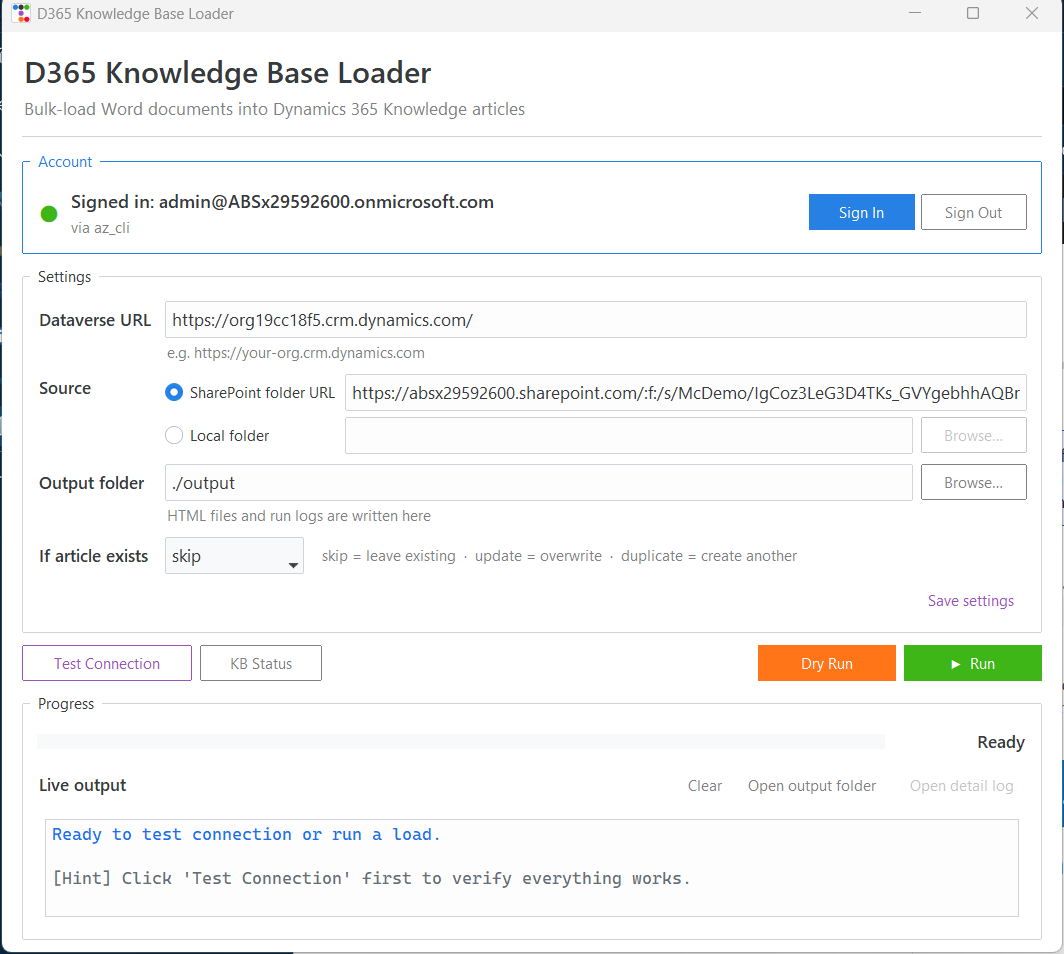
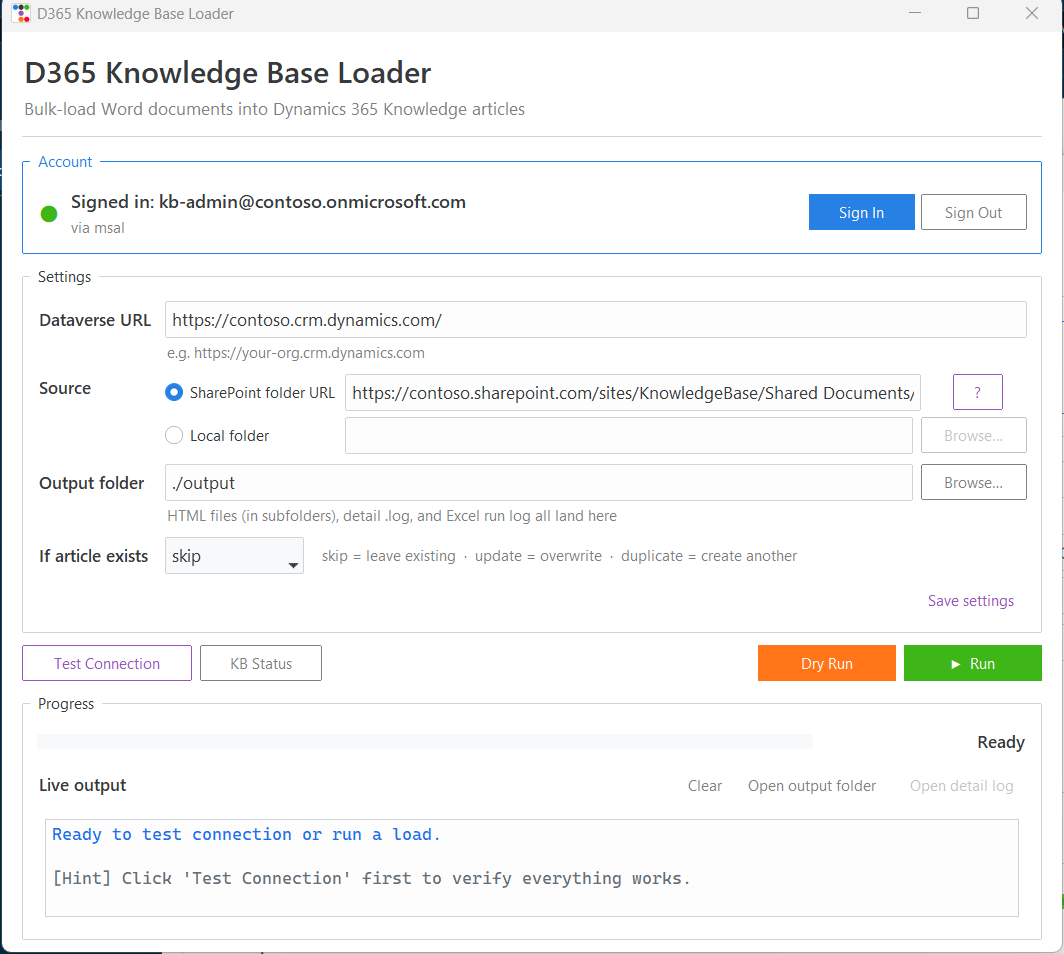
Sanitize screenshots, refresh README and .env.example for external use
Pre-share audit and cleanup:

- Regenerate all 3 screenshots with placeholder values (contoso /
  kb-admin) instead of the dev's real tenant info
- Capture utilities now suppress webbrowser open during regeneration
  so they don't have side effects when run

README rewrite to reflect current state:
- Hybrid auth (MSAL Graph PowerShell + az CLI) is now the default,
  no app registration required
- New 'Inline styling' section documenting the Fluent theme and
  smart callouts
- Progress section mentions the X/Y (NN%) format
- Project structure includes styles.py and all docs/ files
- Troubleshooting section covers the 'no document libraries visible'
  membership case and ARM64 Windows wheel build issue

.env.example rewrite:
- Marked clearly as OPTIONAL — settings.json is the primary store
- Auth section renamed to KB_LOADER_AUTH (not the old AUTH_METHOD)
- AZURE_CLIENT_ID/TENANT_ID documented as overrides (not required)
- Old comments about AUTH_METHOD=auto/msal/az_cli removed

diff --git a/docs/capture_screenshot.py b/docs/capture_screenshot.py
@@ -1,9 +1,8 @@
-"""Capture a screenshot of the GUI for the README.
+"""Capture a screenshot of the GUI for the README, with sanitized demo values.
 
-Launches the GUI, waits for layout to settle, takes a screenshot of the window
-region, then closes. Saves to docs/screenshot.png.
+Launches the GUI with placeholder URLs/email so the screenshot doesn't leak
+real tenant info, takes a screenshot, then closes. Saves to docs/screenshot.png.
 """
-import sys
 import time
 from pathlib import Path
 
@@ -16,7 +15,20 @@ _enable_windows_dpi_awareness()
 root = ttk.Window(themename=DEFAULT_THEME)
 gui = KBLoaderGUI(root)
 
-# Add some sample log content so the screenshot looks more useful
+# Sanitize displayed values so the screenshot doesn't leak real tenant info
+gui.dataverse_var.set("https://contoso.crm.dynamics.com/")
+gui.sharepoint_var.set("https://contoso.sharepoint.com/sites/KnowledgeBase/Shared Documents/KB Articles")
+gui.output_var.set("./output")
+gui.source_mode_var.set("sharepoint")
+gui._on_source_mode_change()
+
+# Force a clean signed-in indicator with a placeholder identity
+gui.auth_icon_var.set("●")
+gui.auth_icon.configure(bootstyle="success")
+gui.auth_status_var.set("Signed in: kb-admin@contoso.onmicrosoft.com")
+gui.auth_method_var.set("via msal")
+
+# Sample live log
 gui._log("✓ Settings loaded.\n", "success")
 gui._log("Ready to test connection or run a load.\n", "info")
 gui._log("\n[Hint] Click 'Test Connection' first to verify everything works.\n", "muted")
@@ -27,13 +39,11 @@ root.update()
 time.sleep(0.5)
 root.update()
 
-# Get window bounds
 x = root.winfo_rootx()
 y = root.winfo_rooty()
 w = root.winfo_width()
 h = root.winfo_height()
 
-# Capture some space around the title bar too
 title_bar_height = 32
 img = ImageGrab.grab(bbox=(x - 2, y - title_bar_height, x + w + 2, y + h + 2))
 

diff --git a/docs/capture_recovery.py b/docs/capture_recovery.py
@@ -1,25 +1,30 @@
-"""Capture the recovery dialog for visual review."""
+"""Capture the sharing-link recovery dialog (sanitized)."""
 import time
 from pathlib import Path
 
 import ttkbootstrap as ttk
 from PIL import ImageGrab
 
-# No-op browser
-import webbrowser
-webbrowser.open = lambda url: None
-
+from kb_loader import gui as gui_module
 from kb_loader.gui import KBLoaderGUI, DEFAULT_THEME, _enable_windows_dpi_awareness
+
+# Suppress browser auto-open during capture
+gui_module._open_url_in_browser = lambda url: True
 
 _enable_windows_dpi_awareness()
 root = ttk.Window(themename=DEFAULT_THEME)
 gui = KBLoaderGUI(root)
+
+gui.dataverse_var.set("https://contoso.crm.dynamics.com/")
+gui.auth_status_var.set("Signed in: kb-admin@contoso.onmicrosoft.com")
+gui.auth_method_var.set("via msal")
+
 root.update_idletasks()
 root.update()
 time.sleep(0.3)
 
 gui._show_sharing_link_recovery_dialog(
-    "https://absx29592600.sharepoint.com/:f:/s/McDemo/IgCoz3LeG3D4TKs_GVYgebhhAQBrNsGNoiftdoDXAJ2DfEs",
+    "https://contoso.sharepoint.com/:f:/s/KnowledgeBase/abc123token456",
     "Test",
 )
 root.update_idletasks()
@@ -27,8 +32,7 @@ root.update()
 time.sleep(0.5)
 root.update()
 
-# Capture the entire screen area for the dialog
-# Find the dialog window
+# Find the dialog window and capture it
 for w in root.winfo_children():
     if isinstance(w, ttk.Toplevel) or w.winfo_class() == "Toplevel":
         x = w.winfo_rootx()

diff --git a/docs/capture_signin.py b/docs/capture_signin.py
@@ -1,28 +1,38 @@
-"""Capture a screenshot of the device code dialog overlay."""
+"""Capture a screenshot of the device code dialog overlay (sanitized)."""
 import time
 from pathlib import Path
 
 import ttkbootstrap as ttk
 from PIL import ImageGrab
 
+from kb_loader import gui as gui_module
 from kb_loader.gui import KBLoaderGUI, DEFAULT_THEME, _enable_windows_dpi_awareness
+
+# Suppress browser auto-open during capture
+gui_module._open_url_in_browser = lambda url: True
 
 _enable_windows_dpi_awareness()
 root = ttk.Window(themename=DEFAULT_THEME)
 gui = KBLoaderGUI(root)
+
+# Sanitize main window so it doesn't leak real values
+gui.dataverse_var.set("https://contoso.crm.dynamics.com/")
+gui.sharepoint_var.set("https://contoso.sharepoint.com/sites/KnowledgeBase/Shared Documents/KB Articles")
+gui.auth_status_var.set("Signed in: kb-admin@contoso.onmicrosoft.com")
+gui.auth_method_var.set("via msal")
+
 gui._log("Starting sign-in…\n", "info")
 root.update_idletasks()
 root.update()
 time.sleep(0.3)
 
-# Show device code dialog
+# Show device code dialog with placeholder code
 gui._show_device_code_dialog("F7Q3K9MAJ", "https://microsoft.com/devicelogin")
 root.update_idletasks()
 root.update()
 time.sleep(0.5)
 root.update()
 
-# Capture the area covering both windows
 x = root.winfo_rootx()
 y = root.winfo_rooty()
 w = root.winfo_width()

diff --git a/README.md b/README.md
@@ -28,7 +28,7 @@ The first run takes about a minute to set up the Python environment and install 
 
 ### 3. Use the app
 
-1. Click **Sign In** (a browser window opens — sign in with your Microsoft account)
+1. Click **Sign In** — a sign-in code appears in a dialog and your browser opens to https://microsoft.com/devicelogin. Paste the code, sign in.
 2. Fill in the **Dataverse URL** (e.g. `https://your-org.crm.dynamics.com`)
 3. Pick your **source** (SharePoint URL or local folder)
 4. Click **Test Connection** to verify everything works
@@ -43,38 +43,34 @@ That's it. Your settings are remembered for next time.
 
 ### 1. Account
 
-![Account section](docs/screenshot.png)
-
 The colored dot tells you at a glance whether you're signed in:
 
 | Dot | Meaning |
 |-----|---------|
 | 🟢 Green | Signed in — ready to use |
 | ⚪ Grey  | Not signed in yet |
-| 🔴 Red   | Authentication isn't available (Azure CLI not installed and no MSAL configured) |
+| 🔴 Red   | Authentication isn't available (Azure CLI not installed) |
 
-The label below shows **how** you're authenticated:
-- **`via az_cli`** — using your existing Azure CLI session (`az login`)
-- **`via msal`** — using a registered Entra ID app (set via `AZURE_CLIENT_ID`)
+The label below shows **how** you're authenticated. The app uses **hybrid auth** by default:
+- **Microsoft Graph** (SharePoint enumeration) → MSAL device-code sign-in
+- **Dataverse** (article CRUD) → your existing Azure CLI session
 
-The app **never prompts for a tenant ID**. It auto-detects from your Azure CLI session, or uses MSAL's universal `organizations` authority so any work/school account works.
+Tokens are cached in `~/.d365kbloader/` so future runs don't re-prompt.
 
 ### 2. Settings
 
 | Field | Purpose |
 |-------|---------|
 | **Dataverse URL** | The URL of your D365 environment (e.g. `https://your-org.crm.dynamics.com`) |
-| **Source: SharePoint folder URL** | Read documents from SharePoint via the Microsoft Graph API. Paste **either** a URL from your browser address bar **or** a sharing link (`Copy link` from SharePoint) — both work. Click the **?** button next to the field for visual help. |
-| **Source: Local folder** | Read documents from a folder on your computer (e.g. a OneDrive-synced SharePoint folder) |
-| **Output folder** | Where HTML files and Excel run logs are written. Defaults to `./output` |
+| **Source: SharePoint folder URL** | Read documents from SharePoint via Microsoft Graph. Paste **either** a URL from your browser address bar **or** a sharing link (`Copy link` from SharePoint). Click the **?** button next to the field for visual help. |
+| **Source: Local folder** | Read documents from a folder on your computer (e.g. an OneDrive-synced SharePoint folder) |
+| **Output folder** | Where HTML files, the detail log, and the Excel run log are written. Defaults to `./output` |
 | **If article exists** | What to do when a Knowledge Article with the same title already exists: |
 | | • **skip** — leave the existing one alone (safest, default) |
 | | • **update** — overwrite the existing article's content |
 | | • **duplicate** — create a new article anyway |
 
-Click **Save settings** at the bottom-right to persist your form values to `~/.d365kbloader/settings.json` so they're remembered across runs and reinstalls.
-
-> **Tip:** The Run button automatically saves your settings before starting, so you rarely need to click Save manually.
+The **Run** button auto-saves your settings before each run, so you rarely need to click **Save settings** manually. Settings persist to `~/.d365kbloader/settings.json` and survive reinstalls.
 
 ### 3. Action buttons
 
@@ -85,21 +81,21 @@ Click **Save settings** at the bottom-right to persist your form values to `~/.d
 | **Dry Run** | Converts files to HTML and writes the run log, but **does NOT publish** to D365. Useful for previewing |
 | **▶ Run** | The real thing — converts, publishes to D365, and updates Knowledge Articles |
 
-> **Recommendation:** Always do a **Dry Run** first to verify file conversion, then **Run** when you're happy with the preview.
+> **Recommendation:** Always do a **Dry Run** first to verify file conversion and styling, then **Run** when you're happy with the preview.
 
 ### 4. Progress
 
 While a run is in progress:
 
 - **Progress bar** fills as files are processed
-- **X / Y counter** on the right shows current file number
+- **`X / Y  (NN%)`** counter on the right shows current file number and percent complete
 - **Live output** displays each file's outcome on a separate line:
   - `content: yes/EMPTY` — whether the document had content
   - `html: saved/skipped` — whether an HTML file was written (skipped for empty docs)
   - `kb: created/updated/skipped (exists)/dry run/ERROR` — what happened in D365
 
 Above the log:
-- **Clear** — wipe the live output
+- **Clear** — wipe the live output area
 - **Open output folder** — open the folder with HTML files & logs in Explorer/Finder
 - **Open detail log** — open the timestamped `.log` file with full debug detail (enabled after a run)
 
@@ -112,7 +108,7 @@ Each Word document becomes a Knowledge Article with these fields:
 | Field | Value |
 |-------|-------|
 | **Title** | Filename without extension (e.g. `Refund Policy.docx` → `Refund Policy`) |
-| **Content** | Full HTML converted from the Word document |
+| **Content** | HTML converted from the Word document, with **inline styles applied** (see below) |
 | **Language** | English (locale 1033) |
 | **Creation mode** | Manual |
 | **Description** | `Auto-imported from SharePoint: <source path>` |
@@ -121,16 +117,35 @@ Each Word document becomes a Knowledge Article with these fields:
 
 Empty documents (no content after conversion) are **skipped** — no HTML file is written and no KB article is created.
 
+### Inline styling
+
+D365's rich-text editor strips `<style>` blocks and external stylesheets, so all formatting must live inline on each element. The app post-processes mammoth's HTML output and applies a Microsoft Fluent-inspired theme:
+
+- **Headings** — `<h1>` and `<h2>` get a Fluent blue accent; sizes scale down through `<h6>`
+- **Body** — Segoe UI 14px, line-height 1.5, max-width 820px
+- **Links** — Fluent blue, no underline
+- **Lists** — clean indentation and spacing
+- **Code** — monospace, light gray pill background; code blocks get a blue left-border accent
+- **Tables** — bordered cells with a shaded header row
+
+Plus **smart callouts**: paragraphs starting with these prefixes are auto-converted to colored callout boxes:
+
+| Prefix | Style |
+|--------|-------|
+| `Note:` | Yellow with amber border |
+| `Tip:` / `Hint:` | Green with green border |
+| `Warning:` / `Important:` / `Caution:` | Red with red border |
+
 ---
 
 ## Authentication
 
-The app supports two authentication methods, chosen automatically:
+The app uses **hybrid authentication** by default — this works for any user in any tenant **without any app registration**:
 
-| Method | When it's used | Setup |
-|--------|----------------|-------|
-| **Azure CLI** *(default)* | When `az` is installed on your machine | Run `az login` once in a terminal — or just click Sign In in the app |
-| **MSAL** *(fallback)* | When `AZURE_CLIENT_ID` is set in `.env` | An IT admin registers a public client app once in Entra ID. No Azure subscription required. |
+| API | Method | Why |
+|-----|--------|-----|
+| **Microsoft Graph** (SharePoint) | MSAL with the Microsoft Graph PowerShell public client ID | This well-known Microsoft client is pre-authorized for `Sites.Read.All` and `Files.Read.All`, which are needed to enumerate SharePoint document libraries. Azure CLI's Graph token doesn't have these scopes. |
+| **Dataverse** (D365) | Azure CLI (`az login`) | Works reliably, no app registration needed, your existing `az` session is reused. |
 
 When you click **Sign In** in the GUI, a dialog appears showing a **device-code** like `F7Q3K9MAJ`:
 
@@ -140,14 +155,18 @@ The browser opens automatically to https://microsoft.com/devicelogin — paste t
 
 > **Why a code instead of a popup?** Browser-based sign-in windows often get hidden behind other apps. The device-code flow is more reliable because the code is always visible right in the app.
 
-Both methods cache tokens for future runs (24 hours typically).
+### Tenant policy override
+
+If your tenant blocks the default Microsoft Graph PowerShell client, you have two options:
+
+1. **Register your own Entra app** with delegated `Sites.Read.All` and `Files.Read.All` permissions, then set `AZURE_CLIENT_ID=<your-app-id>` in `.env`.
+2. **Force az CLI mode** by setting `KB_LOADER_AUTH=az_cli` in `.env`. (SharePoint enumeration may have limited functionality in this mode — see Troubleshooting.)
 
 ### Required permissions
 
 Your Microsoft account needs:
 - **D365**: any role that lets you create/edit Knowledge Articles (e.g. Knowledge Manager)
-- **SharePoint** *(if using SharePoint source)*: read access to the site
-- **Azure subscription**: not required for MSAL; required for Azure CLI
+- **SharePoint** *(if using SharePoint source)*: **direct membership** of the site (a sharing link alone is not enough — the user must be added to Members or have direct access)
 
 ---
 
@@ -166,7 +185,7 @@ output/
 └── 📄 kb_loader_log_20260501_080100.xlsx             ← Excel run log (per run)
 ```
 
-- **HTML files** — one per Word document, in subfolders matching the source folder structure. Empty documents are skipped (no HTML written).
+- **HTML files** — one per Word document, in subfolders matching the source folder structure. Empty documents are skipped (no HTML written). Each HTML file is fully styled and ready to paste into D365.
 - **`kb_loader_YYYYMMDD_HHMMSS.log`** — full timestamped log with every step (great for troubleshooting)
 - **`kb_loader_log_YYYYMMDD_HHMMSS.xlsx`** — Excel summary with one row per file:
 
@@ -194,11 +213,12 @@ Cells are color-coded (green = yes, red = no, yellow = skipped). The Excel file 
 |---------|----------|
 | **"Python is not installed"** when launching | Install Python from [python.org](https://www.python.org/downloads/). On Windows, check "Add to PATH" during install |
 | **macOS: "cannot be opened because the developer cannot be verified"** | Right-click `run.command` → **Open** → click **Open** in the dialog |
-| **Sign-in keeps re-prompting** | Click **Sign Out** in the app, then **Sign In** again. If using Azure CLI, run `az logout && az login` in a terminal |
-| **"Could not get a token from Azure CLI"** | Your account may not have access to that D365 environment. Contact your D365 admin |
-| **"This looks like a SharePoint sharing link"** | This warning is gone in the latest version — sharing links are now resolved automatically. If you still see it, click the **?** button next to the SharePoint field for help |
+| **Sign-in keeps re-prompting** | Click **Sign Out** in the app, then **Sign In** again |
+| **"The SharePoint site was found, but no document libraries are visible"** | Your account isn't a direct Member of the site — only the sharing link gives you access. Either ask the site owner to add you as a Member, OR pick a SharePoint folder you're already a member of, OR sync via OneDrive and use Local folder mode |
+| **SharePoint sharing-link recovery dialog opens** | Sign-in works but Graph couldn't auto-resolve the sharing link. Click **Open link in browser**, copy the URL from the address bar after the page loads, and paste it back into the dialog's Step 3 field |
 | **Legacy `.doc` files don't convert** | Install [LibreOffice](https://www.libreoffice.org/download/). Modern `.docx` files don't need it |
 | **GUI looks tiny on a HiDPI monitor** | The app enables Windows DPI awareness automatically. If still tiny, try moving the window to your primary display |
+| **First-run dependency install fails on ARM64 Windows** | The launcher uses `--prefer-binary` to grab prebuilt wheels. If it still fails, run `python -m pip install --upgrade pip setuptools wheel` then retry the launcher |
 
 For deeper investigation, click **Open detail log** in the GUI (or open the timestamped `.log` file in your output folder) to see the full trace.
 
@@ -219,23 +239,22 @@ python -m kb_loader --kb-status
 python -m kb_loader --help
 ```
 
-CLI args override `.env` and `~/.d365kbloader/settings.json`.
+CLI args override settings from `.env` and `~/.d365kbloader/settings.json`.
 
 ---
 
 ## Cross-platform support
 
-The app is built with cross-platform tooling and tested on Windows. The same code paths run on macOS:
-
-- ✅ **Windows 10/11** — primary development platform
+- ✅ **Windows 10/11** (x64 and ARM64) — primary development platform
 - ✅ **macOS 12+** — uses native Aqua look-and-feel via Tk
 - ✅ **Linux** — should work but not actively tested
 
 Platform-specific behavior:
 - **Fonts** — Segoe UI on Windows, SF Pro on macOS, DejaVu on Linux
 - **HiDPI** — Windows DPI awareness is enabled automatically; macOS Retina is native
-- **File opening** — `os.startfile` on Windows, `open` on macOS, `xdg-open` on Linux
+- **File / browser opening** — `os.startfile` on Windows, `open` on macOS, `xdg-open` on Linux
 - **Azure CLI calls** — uses `shell=True` only on Windows for `az.cmd` resolution
+- **Line endings** — `.gitattributes` enforces LF on `*.command` so Mac launchers work after a Windows clone
 
 ---
 
@@ -246,18 +265,27 @@ D365KBLoader/
 ├── run.bat                    ← Windows launcher (double-click)
 ├── run.command                ← macOS launcher (double-click)
 ├── requirements.txt           ← Python dependencies
+├── .env.example               ← Optional environment overrides
+├── .gitattributes             ← Line-ending rules for cross-platform
 ├── README.md                  ← this file
 ├── docs/
-│   ├── screenshot.png         ← UI screenshot for the README
-│   └── capture_screenshot.py  ← Utility to regenerate the screenshot
+│   ├── screenshot.png         ← Main UI screenshot
+│   ├── screenshot_signin.png  ← Sign-in dialog screenshot
+│   ├── screenshot_recovery.png ← Sharing-link recovery dialog
+│   ├── capture_screenshot.py  ← Utility to regenerate the main screenshot
+│   ├── capture_signin.py      ← Utility to regenerate the sign-in screenshot
+│   └── capture_recovery.py    ← Utility to regenerate the recovery dialog screenshot
 └── kb_loader/
-    ├── __main__.py            ← CLI / GUI entry point
+    ├── __init__.py
+    ├── __main__.py            ← CLI / GUI entry point (GUI is default)
     ├── gui.py                 ← Tkinter + ttkbootstrap GUI
     ├── service.py             ← Core load logic (used by both CLI and GUI)
-    ├── settings.py            ← User-profile settings store (~/.d365kbloader/settings.json)
-    ├── auth.py                ← MSAL + Azure CLI authentication
+    ├── settings.py            ← User-profile settings store
+    ├── auth.py                ← Hybrid MSAL + Azure CLI authentication
     ├── sharepoint_client.py   ← SharePoint via Graph API
     ├── dataverse_client.py    ← D365 Knowledge Article CRUD
-    ├── converter.py           ← Word → HTML conversion
+    ├── converter.py           ← Word → HTML conversion (mammoth + LibreOffice)
+    ├── styles.py              ← Inline-style post-processor for D365
+    ├── config.py              ← Legacy CLI Config dataclass (used by clients)
     └── run_log.py             ← Excel run log generator
 ```
